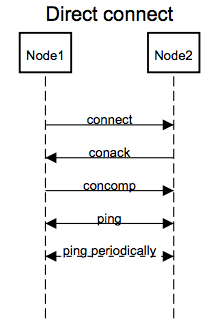
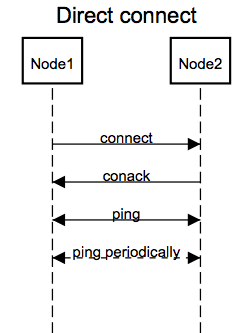
serialize node array when packet

Changed region(s): [[0.0822, 0.0, 0.9315, 1.0], [0.7671, 0.8696, 0.8219, 1.0]]

diff --git a/lib/node.js b/lib/node.js
@@ -4,7 +4,8 @@ var KBucket = require('k-bucket')
   , inherits = require('inherits')
   , ht = require("ht")
   , Network = require('./network')
-  , protocol = require('./protocol');
+  , protocol = require('./protocol')
+  , bufferEqual = require('buffer-equal');
 
 var defaultOptions = {
 	networkPort: 2015,
@@ -215,13 +216,13 @@ Node.prototype._handleLookupMessage = function(message, address) {
 	var lookrespMessage = {
 		type: protocol.typeCodes['mate_lookresp'],
 		messageId: message.messageId,
-		closestNodes: closestNodes
+		closestNodes: this._serializeNodeArray(closestNodes)
 	};
 	this.network.sendMessage(lookrespMessage, address);
 };
 
 Node.prototype._handleLookrespMessage = function(message, address) {
-	if (!message.closestNodes || message.constructor !== Array) {
+	if (!message.closestNodes || message.closestNodes.constructor !== Array) {
 		console.log('lookresp message missing parameters');
 		return;
 	}
@@ -232,7 +233,7 @@ Node.prototype._handleLookrespMessage = function(message, address) {
 	}
 
 	var messageHandlers = this.messageList.get(message.messageId);
-	messageHandlers.findHandler(message.closestNodes);
+	messageHandlers.findHandler(this._unserializeNodeArray(message.closestNodes));
 };
 
 Node.prototype._sendConnectMessage = function(remoteAddress) {
@@ -308,6 +309,30 @@ Node.prototype._indexOfNodeArray = function(nodeIdBin, nodeArray) {
         }
     }
     return -1;
+};
+
+Node.prototype._serializeNodeArray = function(nodeArray) {
+	var serializedNodeArray = [];
+	for (var i = 0; i < nodeArray.length; i++) {
+		serializedNodeArray[i] = {
+			id: nodeArray[i].id.toString(),
+			address: nodeArray[i].address
+		};
+	}
+
+	return serializedNodeArray;
+};
+
+Node.prototype._unserializeNodeArray = function(serializedNodeArray) {
+	var nodeArray = [];
+	for (var i = 0; i < serializedNodeArray.length; i++) {
+		nodeArray[i] = {
+			id: new Buffer(serializedNodeArray[i].id),
+			address: serializedNodeArray[i].address
+		};
+	}
+
+	return nodeArray;
 };
 
 Node.prototype._addNode = function(nodeIdBin, nodeAddress) {

diff --git a/lib/network.js b/lib/network.js
@@ -34,17 +34,17 @@ function Network(options) {
 			var message = bencode.decode(data, 'utf8');
 		} catch (e) {
 			that.emit("data_error", 'decode error');
-			console.log('Mate udp node reveive invalid message');
+			console.log('Mate udp node reveive invalid message: decode error');
 			return;
 		}
 
 		if (protocol.types[message.type] === undefined) {
 			that.emit("data_error", 'unknown type');
-			console.log('Mate udp node reveive invalid message');
+			console.log('Mate udp node reveive invalid message: unknown type');
 			return;
 		}
 
-		console.log('Mate udp node reveive message type: ' + protocol.types[message.type]);
+		console.log('Mate udp node reveive message: %j', message);
 
 		var address = {
 			ip: remote.address,
@@ -58,9 +58,12 @@ function Network(options) {
 inherits(Network, events.EventEmitter);
 
 Network.prototype.sendMessage = function (message, address) {
-	console.log('Mate udp node send message type: ' + protocol.types[message.type]);
+	console.log('Mate udp node send message: %j', message);
 
 	var data = bencode.encode(message);
+
+	// console.log('Mate udp node send message: ' + data.toString());
+
 	this.udpNode.send(data, 0, data.length, address.port, address.ip, function (err, bytes) {
 		if (err) {
 			this.emit('send_error', err);

diff --git a/lib/protocol.js b/lib/protocol.js
@@ -8,8 +8,7 @@ module.exports.types = {
 	3: 'mate_nat',
 	4: 'mate_connect',
 	5: 'mate_conack',
-	6: 'mate_concomp',
-	7: 'mate_ping'
+	6: 'mate_ping'
 };
 
 /* Mnemonic => Message type code */

diff --git a/doc/indirect.md b/doc/indirect.md
@@ -13,10 +13,6 @@ Node2->Node3: conack
 Node3->Node1: conack
 
 linear
-Node1->Node3: concomp
-Node3->Node2: concomp
-
-linear
 Node1<->Node3: ping
 Node3<->Node2: ping
 

diff --git a/doc/direct.md b/doc/direct.md
@@ -10,7 +10,6 @@ linear off
 Node2->Node1: conack
 
 linear
-Node1->Node2: concomp
 Node1<->Node2: ping
 
 Node1<-->Node2: ping periodically
